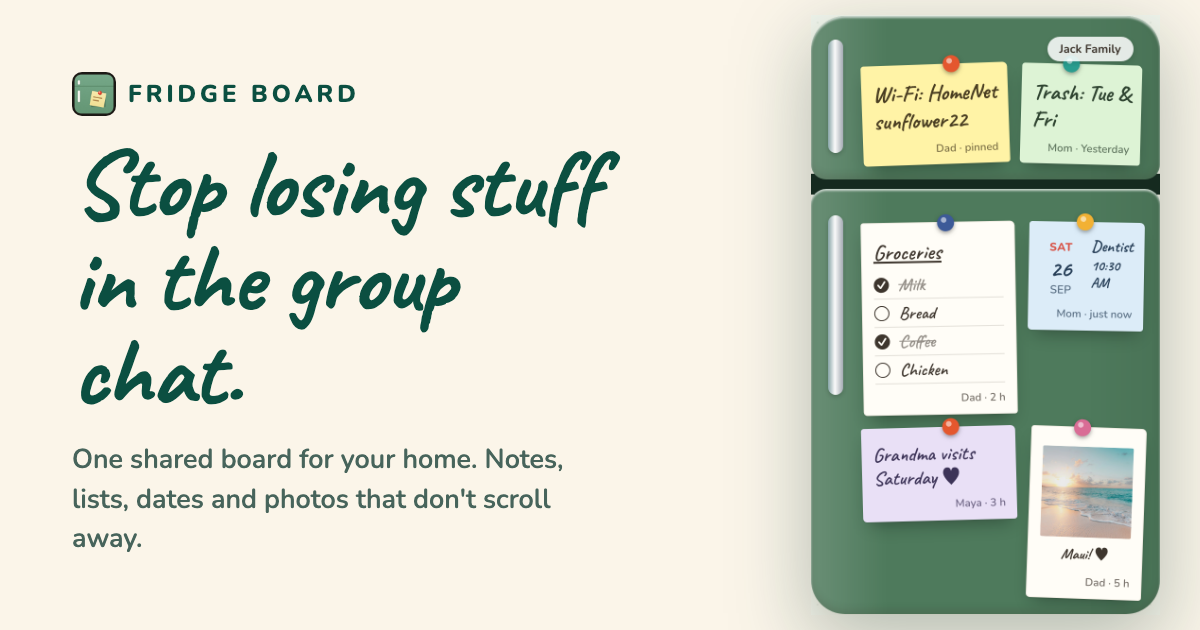
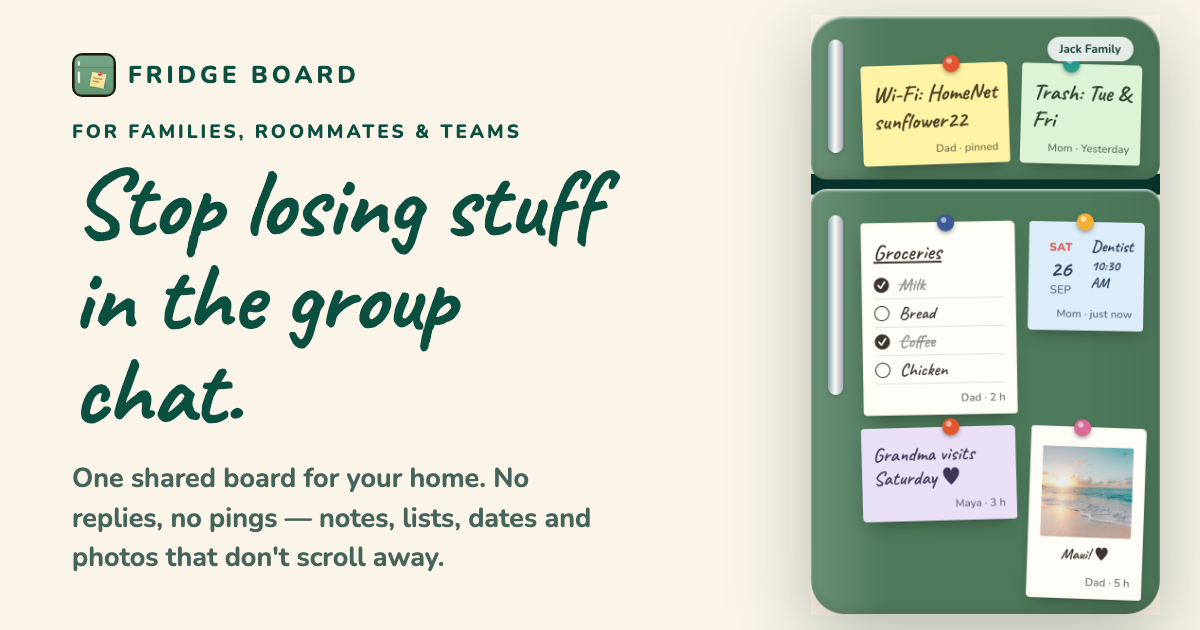
og

Changed region(s): [[0.0617, 0.0603, 0.5242, 0.573], [0.0617, 0.5429, 0.4933, 0.9048], [0.8942, 0.0603, 0.925, 0.0905]]

diff --git a/website/styles.css b/website/styles.css
@@ -49,14 +49,14 @@
 }
 
 :root {
-  --bg: #EDF3EA;
-  --ink: #3e362e;
-  --ink-soft: #6b6156;
+  --bg: #FBF5E9;
+  --ink: #143C34;
+  --ink-soft: #47645B;
   --accent: #E8823C;
   --accent-deep: #C96A27;
-  --brown: #1E3B2A;
-  --paper: #F5F9F2;
-  --border: #D5E0CF;
+  --brown: #0B4F41;
+  --paper: #FFFDF7;
+  --border: #EDE4D3;
   --butter: #fff3a6;
   --blush: #f8dde0;
   --sage: #ddf3d5;
@@ -65,15 +65,15 @@
   --lilac: #e9e0f6;
   --mint: #d4f0dc;
   --dark: #1E3B2A;
-  --pine: #1E3B2A;
-  --pine-deep: #152A1F;
+  --pine: #0B4F41;
+  --pine-deep: #07332A;
   --on-pine: #F6F0DC;
   --leaf: #A9CFB2;
   --brand-yellow: #F1D876;
   --cream: #FFF3D6;
   --accent-wash: #FFF0E4;
   --selected: #FBEFC3;
-  --shadow: rgba(92, 76, 54, 0.18);
+  --shadow: rgba(20, 60, 52, 0.16);
   --hand: 'Caveat', cursive;
   --ui: 'Nunito', system-ui, sans-serif;
 }
@@ -87,7 +87,7 @@ img { max-width: 100%; }
 body {
   font-family: var(--ui);
   background: var(--bg);
-  background-image: radial-gradient(rgba(30, 59, 42, 0.07) 1px, transparent 1px);
+  background-image: radial-gradient(rgba(11, 79, 65, 0.08) 1px, transparent 1px);
   background-size: 22px 22px;
   color: var(--ink);
   line-height: 1.6;
@@ -95,7 +95,7 @@ body {
   overflow-x: clip;
 }
 
-.hand { font-family: var(--hand); font-weight: 600; }
+.hand { font-family: var(--hand); font-weight: 700; }
 
 .eyebrow {
   text-transform: uppercase;
@@ -109,33 +109,35 @@ body {
 .section { max-width: 1120px; margin: 0 auto; padding: 4.5rem 1.5rem; }
 .section-tight-bottom { padding-bottom: 1.5rem; }
 .section-tight-top { padding-top: 1.5rem; }
-/* alternating full-bleed bands: light greens on the light-green page */
+/* alternating full-bleed bands: cream ↔ white only */
 .band { padding: 0; }
-.band-cream { background: #E2EBDD; border-top: 1px solid var(--border); border-bottom: 1px solid var(--border); }
-.band-white { background: #F2F7EF; border-top: 1px solid var(--border); border-bottom: 1px solid var(--border); }
-.band-sage { background: #D9E9D5; border-top: 1px solid #C2D6BE; border-bottom: 1px solid #C2D6BE; }
+.band-cream { background: var(--bg); border-top: 1px solid var(--border); border-bottom: 1px solid var(--border); }
+.band-white { background: #FDF8EC; border-top: 1px solid var(--border); border-bottom: 1px solid var(--border); }
+.band-sage { background: var(--bg); border-top: 1px solid var(--border); border-bottom: 1px solid var(--border); }
 /* handwritten bridge stitching the pain section to the fix section */
 .section-connector { text-align: center; padding: 0.5rem 1rem 0; color: var(--ink-soft); }
 .section-connector p { font-size: 1.6rem; transform: rotate(-2deg); }
 .connector-arrow { font-size: 1.8rem; color: var(--board-sage); line-height: 1; }
 .section-title { font-size: clamp(2.4rem, 5vw, 3.6rem); line-height: 1.05; margin-bottom: 1.5rem; }
 .lede { color: var(--ink-soft); font-size: 1.05rem; max-width: 34rem; }
+/* OG-card lede treatment: Nunito semibold, larger, softer pine. */
+.hero-copy .lede { font-size: 1.3rem; font-weight: 600; line-height: 1.5; }
 
-/* nav */
+/* nav — same theme as the footer: deep pine bar, cream type */
 .nav {
   position: sticky; top: 0; z-index: 50;
   display: flex; align-items: center; gap: 1.5rem;
   padding: 0.8rem 1.5rem;
-  background: rgba(237, 243, 234, 0.92);
-  backdrop-filter: blur(8px);
-  border-bottom: 1px solid var(--border);
+  background: var(--pine-deep);
+  border-bottom: 1px solid rgba(0, 0, 0, 0.3);
 }
-.brand { display: flex; align-items: center; gap: 0.5rem; text-decoration: none; color: var(--ink); }
+.brand { display: flex; align-items: center; gap: 0.5rem; text-decoration: none; color: var(--on-pine); }
 .brand-pin { width: 24px; height: 24px; border-radius: 6px; display: inline-block; }
 .brand-name { font-size: 1.5rem; }
 .nav-links { display: flex; gap: 1.4rem; margin-left: auto; }
-.nav-links a { text-decoration: none; color: var(--ink); font-weight: 600; font-size: 0.95rem; }
-.nav-links a:hover { color: var(--board-sage); }
+.nav-links a { text-decoration: none; color: var(--on-pine); font-weight: 600; font-size: 0.95rem; }
+.nav-links a:hover { color: var(--leaf); }
+.nav .btn-dark { background: var(--on-pine); color: var(--pine); }
 
 .btn { display: inline-block; text-decoration: none; font-weight: 800; border-radius: 999px; }
 .btn-dark { background: var(--pine); color: var(--on-pine); }
@@ -148,8 +150,9 @@ body {
 }
 .hero-copy { min-width: 0; }
 /* hero headline: the one h1 the page owns, with marker highlights */
-.hero-copy h1 { font-size: clamp(2.7rem, 5vw, 3.9rem); line-height: 1.08; margin: 0.5rem 0 1rem; color: var(--ink); }
-.hl { background: #CBE2C4; box-decoration-break: clone; -webkit-box-decoration-break: clone; padding: 0 0.08em; }
+.hero-copy h1 { font-size: clamp(2.7rem, 5vw, 3.9rem); line-height: 1.08; margin: 0.5rem 0 1rem; color: var(--pine); }
+.hl { background: var(--brand-yellow); box-decoration-break: clone; -webkit-box-decoration-break: clone; padding: 0 0.08em; }
+.hl-line { text-decoration: underline; text-decoration-color: var(--brand-yellow); text-decoration-thickness: 4px; text-underline-offset: 6px; }
 .hero-copy .lede { margin-bottom: 1.4rem; max-width: 30rem; }
 .hero-copy .store-row { margin-bottom: 0.2rem; }
 .gn-sep { color: #B8CCB2; margin: 0 0.15rem; }
@@ -159,7 +162,7 @@ body {
   display: inline-flex; align-items: center; gap: 0.6rem;
   background: var(--pine); color: var(--on-pine); text-decoration: none;
   border-radius: 999px; padding: 0.55rem 1.3rem;
-  box-shadow: 0 4px 10px rgba(30, 59, 42, 0.35);
+  box-shadow: 0 4px 10px rgba(11, 79, 65, 0.35);
 }
 .store-btn span { display: flex; flex-direction: column; line-height: 1.15; }
 .store-btn small { font-size: 0.65rem; font-weight: 400; opacity: 0.8; }

diff --git a/website/index.html b/website/index.html
@@ -10,11 +10,11 @@
 <link rel="icon" type="image/png" sizes="96x96" href="favicon.png?v=3" />
 <link rel="icon" type="image/png" sizes="32x32" href="favicon-32.png?v=3" />
 <link rel="apple-touch-icon" href="apple-touch-icon.png?v=2" />
-<meta name="theme-color" content="#EDF3EA" />
+<meta name="theme-color" content="#FBF5E9" />
 <!-- TODO: replace app-id once the App Store listing is live (no Apple account yet). -->
 <meta name="apple-itunes-app" content="app-id=0000000000" />
 <meta property="og:type" content="website" />
-<meta property="og:title" content="Fridge Board: the family noticeboard on every phone" />
+<meta property="og:title" content="Fridge Board: One shared board with no replies or pings" />
 <meta property="og:description" content="Notes, lists, dates and photos that don't get buried in the group chat." />
 <meta property="og:url" content="https://fridge-board.kranehx.com/" />
 <meta property="og:image" content="https://fridge-board.kranehx.com/og.png" />
@@ -22,12 +22,12 @@
 <meta property="og:image:height" content="630" />
 <meta property="og:site_name" content="Fridge Board" />
 <meta name="twitter:card" content="summary_large_image" />
-<meta name="twitter:title" content="Fridge Board: the family noticeboard on every phone" />
+<meta name="twitter:title" content="Fridge Board: One shared board with no replies or pings" />
 <meta name="twitter:description" content="Notes, lists, dates and photos that don't get buried in the group chat." />
 <meta name="twitter:image" content="https://fridge-board.kranehx.com/og.png" />
 <link rel="preload" href="fonts/nunito-400.woff2" as="font" type="font/woff2" crossorigin />
 <link rel="preload" href="fonts/caveat-600.woff2" as="font" type="font/woff2" crossorigin />
-<link rel="stylesheet" href="styles.css?v=6" />
+<link rel="stylesheet" href="styles.css?v=15" />
 </head>
 <body>
 
@@ -49,7 +49,7 @@
     <div class="hero-copy">
       <p class="eyebrow">FOR FAMILIES, ROOMMATES & TEAMS</p>
       <h1 class="hand">Stop losing stuff in the <span class="hl">group chat.</span></h1>
-      <p class="lede">One shared board for the people you live, play or work with. <span class="hl">No replies, no pings, nothing scrolls away.</span></p>
+      <p class="lede">One shared board for the people you live, play or work with.<br /><span class="hl-line">No replies, no pings, nothing scrolls away.</span></p>
       <div class="store-row">
         <a class="store-btn" href="https://apps.apple.com/app/id0000000000" data-placeholder="app-store" aria-label="Download on the App Store">
           <svg viewBox="0 0 24 24" width="18" height="18" fill="none" stroke="currentColor" stroke-width="2" stroke-linecap="round" stroke-linejoin="round" aria-hidden="true"><rect x="7" y="2" width="10" height="20" rx="2"/><line x1="11" y="18" x2="13" y="18"/></svg>
@@ -135,7 +135,7 @@
   </section>
 
   <!-- 2 · BURIED -->
-  <div class="band band-cream">
+  <div class="band band-white">
   <section class="section" id="problem">
     <p class="eyebrow">Buried every day</p>
     <h2 class="hand section-title">Lost it in the chat again?</h2>
@@ -161,6 +161,7 @@
   </div>
 
   <!-- 3 · THE FIX (compare) -->
+  <div class="band band-cream">
   <section class="section" id="fix">
     <h2 class="hand section-title centered">Stop scrolling up for the Wi-Fi password.</h2>
     <div class="compare">
@@ -191,6 +192,7 @@
       </figure>
     </div>
   </section>
+  </div>
 
   <!-- 4 · WHAT GOES ON THE BOARD -->
   <div class="band band-white">
@@ -294,6 +296,7 @@
   </div>
 
   <!-- 5 · WHY IT'S NOT ANOTHER CHAT -->
+  <div class="band band-cream">
   <section class="section" id="no-noise">
     <p class="eyebrow">Why it's not another chat</p>
     <div class="not-chat">
@@ -314,9 +317,10 @@
       </div>
     </div>
   </section>
+  </div>
 
   <!-- 6 · TIDIES ITSELF -->
-  <div class="band band-sage">
+  <div class="band band-white">
   <section class="section tidy" id="tidy">
     <div class="tidy-copy">
       <p class="eyebrow">The board tidies itself</p>
@@ -350,6 +354,7 @@
   </div>
 
   <!-- 7 · HOW IT WORKS -->
+  <div class="band band-cream">
   <section class="section" id="how-it-works">
     <p class="eyebrow">How it works</p>
     <h2 class="hand section-title">Up and running in under a minute.</h2>
@@ -359,9 +364,10 @@
       <div class="step"><span class="num num-teal">3</span><h3>Everyone pins</h3><p>Notes, lists, dates and photos show up for everyone right away, on every phone.</p></div>
     </div>
   </section>
+  </div>
 
   <!-- 8 · MADE FOR -->
-  <div class="band band-cream">
+  <div class="band band-white">
   <section class="section">
     <p class="eyebrow">Made for</p>
     <h2 class="hand section-title">Anyone who shares a fridge. Or doesn't.</h2>
@@ -378,6 +384,7 @@
   </div>
 
   <!-- 9 · PRIVACY -->
+  <div class="band band-cream">
   <section class="section" id="privacy">
     <p class="eyebrow">Private by default</p>
     <h2 class="hand section-title">Your fridge door, not a social network.</h2>
@@ -388,6 +395,7 @@
       <div><p class="p-icon" aria-hidden="true">🗑</p><h3>Delete any time</h3><p>Right from the app. <a href="privacy.html">Read the privacy policy</a>.</p></div>
     </div>
   </section>
+  </div>
 
   <!-- 10 · QUESTIONS -->
   <div class="band band-white">

diff --git a/store-screenshots/og.html b/store-screenshots/og.html
@@ -21,12 +21,13 @@
   .brand { display: flex; align-items: center; gap: 12px; margin-bottom: 22px; }
   .brand img { width: 44px; height: 44px; border-radius: 10px; display: block; }
   .brand span { font-weight: 800; font-size: 24px; letter-spacing: 4px; color: #0B4F41; }
+  .aud { font-weight: 800; font-size: 19px; letter-spacing: 3px; color: #0B4F41; margin: 2px 0 12px; }
   h1 {
     font-family: 'Caveat', cursive; font-weight: 700;
     font-size: 96px; line-height: 0.98; letter-spacing: -1px; color: #0B4F41;
   }
   h1 .hl { background: linear-gradient(transparent 62%, #F1D876 62%); }
-  .lede { margin-top: 20px; font-size: 27px; line-height: 1.45; font-weight: 600; color: #47645B; max-width: 520px; }
+  .lede { margin-top: 20px; font-size: 27px; line-height: 1.45; font-weight: 700; color: #47645B; max-width: 520px; }
   .art { width: 560px; height: 630px; position: relative; }
   .art img {
     position: absolute; right: 40px; top: 50%; transform: translateY(-50%);
@@ -39,7 +40,7 @@
     box-shadow: 0 12px 30px rgba(7,51,42,.30);
   }
   .note h4 { font-family: 'Caveat', cursive; font-weight: 700; font-size: 34px; line-height: 1.05; }
-  .note small { display: block; margin-top: 6px; font-size: 15px; font-weight: 700; opacity: .6; }
+  .note small { display: block; margin-top: 6px; font-size: 15px; font-weight: 700; opacity: .75; }
   .n1 { background: #FFF3A6; color: #4A3E22; transform: rotate(-3deg); left: 6px; top: 92px; }
   .n2 { background: #fff; color: #3E362E; border: 2px solid #F2EEE5; transform: rotate(2deg); right: 22px; top: 356px; }
   .pin {
@@ -61,8 +62,9 @@
 <body>
   <div class="copy">
     <div class="brand"><img src="../assets/icon.png" alt="" /><span>FRIDGE BOARD</span></div>
+    <p class="aud">FOR FAMILIES, ROOMMATES &amp; TEAMS</p>
     <h1>Stop losing stuff in the group chat.</h1>
-    <p class="lede">One shared board for your home. Notes, lists, dates and photos that don't scroll away.</p>
+    <p class="lede">One shared board for your home. No replies, no pings — notes, lists, dates and photos that don't scroll away.</p>
   </div>
   <div class="art">
     <img id="fridgeShot" alt="Fridge Board fridge with pinned notes" />

diff --git a/website/privacy.html b/website/privacy.html
@@ -9,7 +9,7 @@
 <link rel="icon" type="image/png" sizes="96x96" href="favicon.png?v=3" />
 <link rel="icon" type="image/png" sizes="32x32" href="favicon-32.png?v=3" />
 <link rel="apple-touch-icon" href="apple-touch-icon.png?v=2" />
-<link rel="stylesheet" href="styles.css?v=4" />
+<link rel="stylesheet" href="styles.css?v=13" />
 <style>
   .legal { max-width: 720px; margin: 0 auto; padding: 64px 24px 96px; }
   .legal h1 { font-family: var(--hand); font-size: 2.6rem; margin-bottom: 0.4rem; }
@@ -49,15 +49,7 @@
   <p>No advertising identifiers, no location tracking, no contacts access, no behavioural analytics. There is nothing to opt out of because there is nothing to track.</p>
 
   <h2>How your data is used</h2>
-  <p>Your data is used only to run the app: to show your boards to the people you invite, and to keep the service working. We never sell data, never show ads, and never share content with third parties except the infrastructure providers below.</p>
-
-  <h2>Processors</h2>
-  <ul>
-    <li><strong>Supabase</strong> — database, authentication and file storage.</li>
-    <li><strong>Resend</strong> — sends the 6-digit email sign-in codes via our custom SMTP sender.</li>
-    <li><strong>Apple / Google</strong> — only if you choose to save your account with them.</li>
-    <li><strong>Cloudflare Turnstile</strong> — bot protection on sign-in.</li>
-  </ul>
+  <p>Your data is used only to run the app: to show your boards to the people you invite, and to keep the service working. We never sell data and never show ads.</p>
 
   <h2>Retention</h2>
   <ul>

diff --git a/website/families/index.html b/website/families/index.html
@@ -10,13 +10,13 @@
 <link rel="icon" type="image/png" sizes="96x96" href="../favicon.png?v=3" />
 <link rel="icon" type="image/png" sizes="32x32" href="../favicon-32.png?v=3" />
 <link rel="apple-touch-icon" href="../apple-touch-icon.png?v=2" />
-<meta name="theme-color" content="#EDF3EA" />
+<meta name="theme-color" content="#FBF5E9" />
 <meta property="og:type" content="website" />
 <meta property="og:title" content="Fridge Board for Families" />
 <meta property="og:description" content="One shared board for the Wi-Fi password, the grocery list and the school run." />
 <meta property="og:image" content="https://fridge-board.kranehx.com/og.png" />
 <meta name="twitter:card" content="summary_large_image" />
-<link rel="stylesheet" href="../styles.css?v=6" />
+<link rel="stylesheet" href="../styles.css?v=15" />
 </head>
 <body>
 

diff --git a/website/roommates/index.html b/website/roommates/index.html
@@ -10,13 +10,13 @@
 <link rel="icon" type="image/png" sizes="96x96" href="../favicon.png?v=3" />
 <link rel="icon" type="image/png" sizes="32x32" href="../favicon-32.png?v=3" />
 <link rel="apple-touch-icon" href="../apple-touch-icon.png?v=2" />
-<meta name="theme-color" content="#EDF3EA" />
+<meta name="theme-color" content="#FBF5E9" />
 <meta property="og:type" content="website" />
 <meta property="og:title" content="Fridge Board for Roommates" />
 <meta property="og:description" content="Rent, bins, chores and the shopping list, on one shared board." />
 <meta property="og:image" content="https://fridge-board.kranehx.com/og.png" />
 <meta name="twitter:card" content="summary_large_image" />
-<link rel="stylesheet" href="../styles.css?v=6" />
+<link rel="stylesheet" href="../styles.css?v=15" />
 </head>
 <body>
 

diff --git a/website/contact.html b/website/contact.html
@@ -9,7 +9,7 @@
 <link rel="icon" type="image/png" sizes="96x96" href="favicon.png?v=3" />
 <link rel="icon" type="image/png" sizes="32x32" href="favicon-32.png?v=3" />
 <link rel="apple-touch-icon" href="apple-touch-icon.png?v=2" />
-<link rel="stylesheet" href="styles.css?v=4" />
+<link rel="stylesheet" href="styles.css?v=13" />
 <style>
   .legal { max-width: 720px; margin: 0 auto; padding: 64px 24px 96px; }
   .legal h1 { font-family: var(--hand); font-size: 2.6rem; margin-bottom: 0.4rem; }

diff --git a/website/terms.html b/website/terms.html
@@ -9,7 +9,7 @@
 <link rel="icon" type="image/png" sizes="96x96" href="favicon.png?v=3" />
 <link rel="icon" type="image/png" sizes="32x32" href="favicon-32.png?v=3" />
 <link rel="apple-touch-icon" href="apple-touch-icon.png?v=2" />
-<link rel="stylesheet" href="styles.css?v=4" />
+<link rel="stylesheet" href="styles.css?v=13" />
 <style>
   .legal { max-width: 720px; margin: 0 auto; padding: 64px 24px 96px; }
   .legal h1 { font-family: var(--hand); font-size: 2.6rem; margin-bottom: 0.4rem; }
